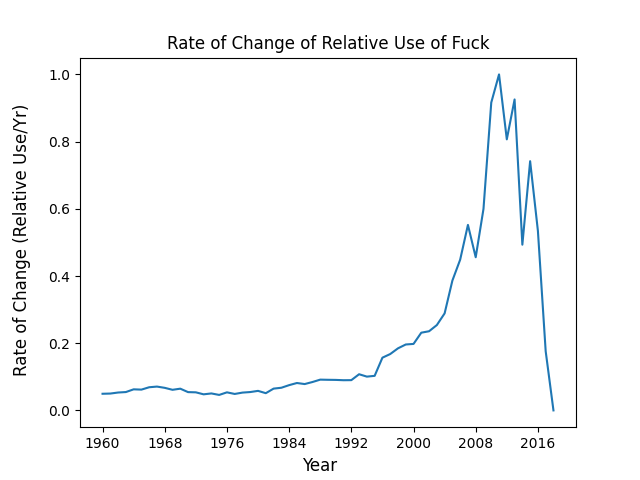
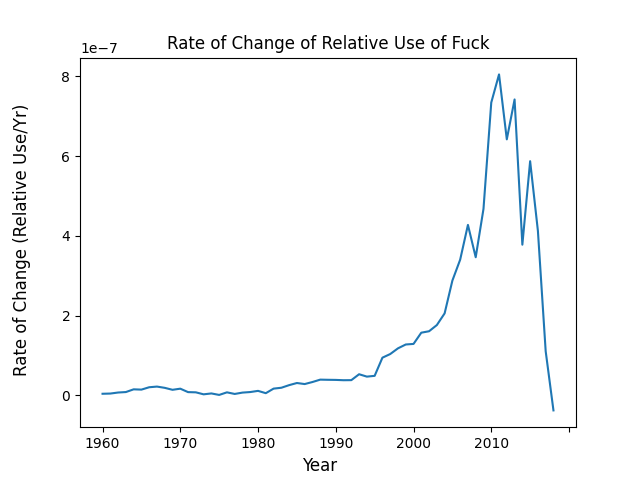
Denormalized ROC

diff --git a/processData.py b/processData.py
@@ -8,7 +8,7 @@ import numpy as np
 import csv
  
 
-slangList = ['Fuck','Shit']
+slangList = ['Shit','Fuck']
 
 def createFrequencyGraph(years, values):
     floatValues = []
@@ -21,9 +21,9 @@ def createFrequencyGraph(years, values):
 
     #ax.yaxis.set_major_formatter(FormatStrFormatter('%.10f'))
     ax.plot(years,floatValues)
-    ax.set_title('Frequency Graph (Relative Use/Yr))')
+    ax.set_title(f'Relative Frequency of {slang}')
     fig.supxlabel('Year')
-    fig.supylabel(f'Relative Frequency of {slang}')
+    fig.supylabel(f'Relative Use/Yr')
     fig.savefig(f"ProcessedData/{slang}-Frequency")
 
    
@@ -31,11 +31,10 @@ def createFrequencyGraph(years, values):
 def createRateChangeGraph(years, values):
     years.pop(len(years) - 1)
     fig2, ax = plt.subplots()
-    
-    ax.xaxis.set_major_locator(ticker.MaxNLocator())
+    ax.plot(years,values)
+    ax.xaxis.set_major_locator(ticker.AutoLocator())
     fig2.supxlabel('Year')
     fig2.supylabel('Rate of Change (Relative Use/Yr)')
-    ax.plot(years,values)
     ax.set_title(f'Rate of Change of Relative Use of {slang}')
     fig2.savefig(f"ProcessedData/{slang}-ROC")
     
@@ -99,6 +98,6 @@ for slang in slangList:
     freqValues = normalizeData(dataValues)  #
     createFrequencyGraph(dataYears, dataValues)
     rateOfChangeValues = findRateOfChange(dataValues)
-    rateOfChangeValues = normalizeData(rateOfChangeValues)
+    #rateOfChangeValues = normalizeData(rateOfChangeValues)
     createRateChangeGraph(dataYears, rateOfChangeValues)
     

diff --git a/getData.py b/getData.py
@@ -5,7 +5,7 @@ import matplotlib.ticker as ticker
 import csv
 import os
 
-slangList = ['Fuck','Shit']
+slangList = ['Trump']
 
 for slang in slangList: 
     params = {
